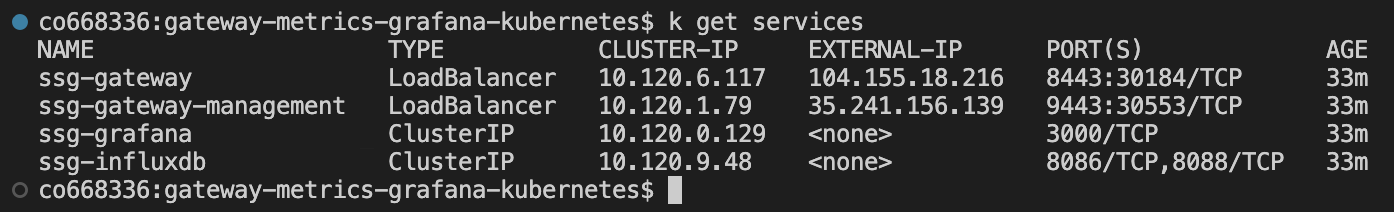
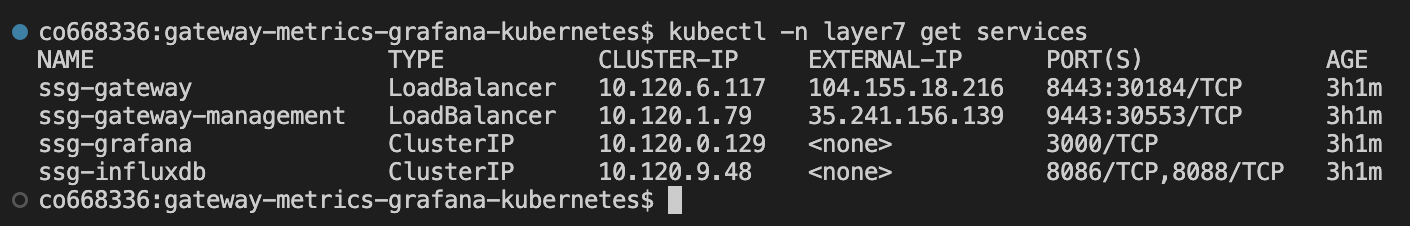
Update #4
Following Gary suggestion (license / .gitignore, GKE reference removed, new screenshot for services.png to have kubectl instead of k).

diff --git a/gateway-metrics-grafana-kubernetes/README.md b/gateway-metrics-grafana-kubernetes/README.md
@@ -4,16 +4,11 @@ This repository is a sample configuration to send service metrics data from an e
 # Getting Started
 Before getting started, you must copy an API Gateway license file to the `./gateway/license` directory.
 
-This example has been tested using the following versions of Kubernetes:
-* Kubernetes 1.22 on GKE
+This example has been tested using Kubernetes 1.22. 
 
 ## Setup
-You need to have a Kubernetes cluster up and running (4 cores and 16 GB RAM), as well as Gcloud, Kubectl and Helm deployed to your workstation. Make should also be installed on your workstation.
-Once the cluster is up and running, use the connection string provided by GKE so that you can connect from your workstation. For exemple, on a terminal of your workstation, it would be something like:
-`gcloud container clusters get-credentials <cluster-name> --zone <cluster zone> --project <project>`
-
-Also ensure that you have the necessary admin right on GKE:
-`kubectl create clusterrolebinding cluster-admin-binding --clusterrole cluster-admin --user <your GKE credentials>`
+You need to have a Kubernetes cluster up and running (4 cores and 16 GB RAM), as well as Kubectl and Helm deployed to your workstation. Make should also be installed on your workstation.
+Once the cluster is up and running, ensure you can connect to it from your workstation and have the proper rights (cluster role binding to a cluster admin role may be required).
 
 You can then deploy an ephemeral gateway by running the command 
 `make install`
